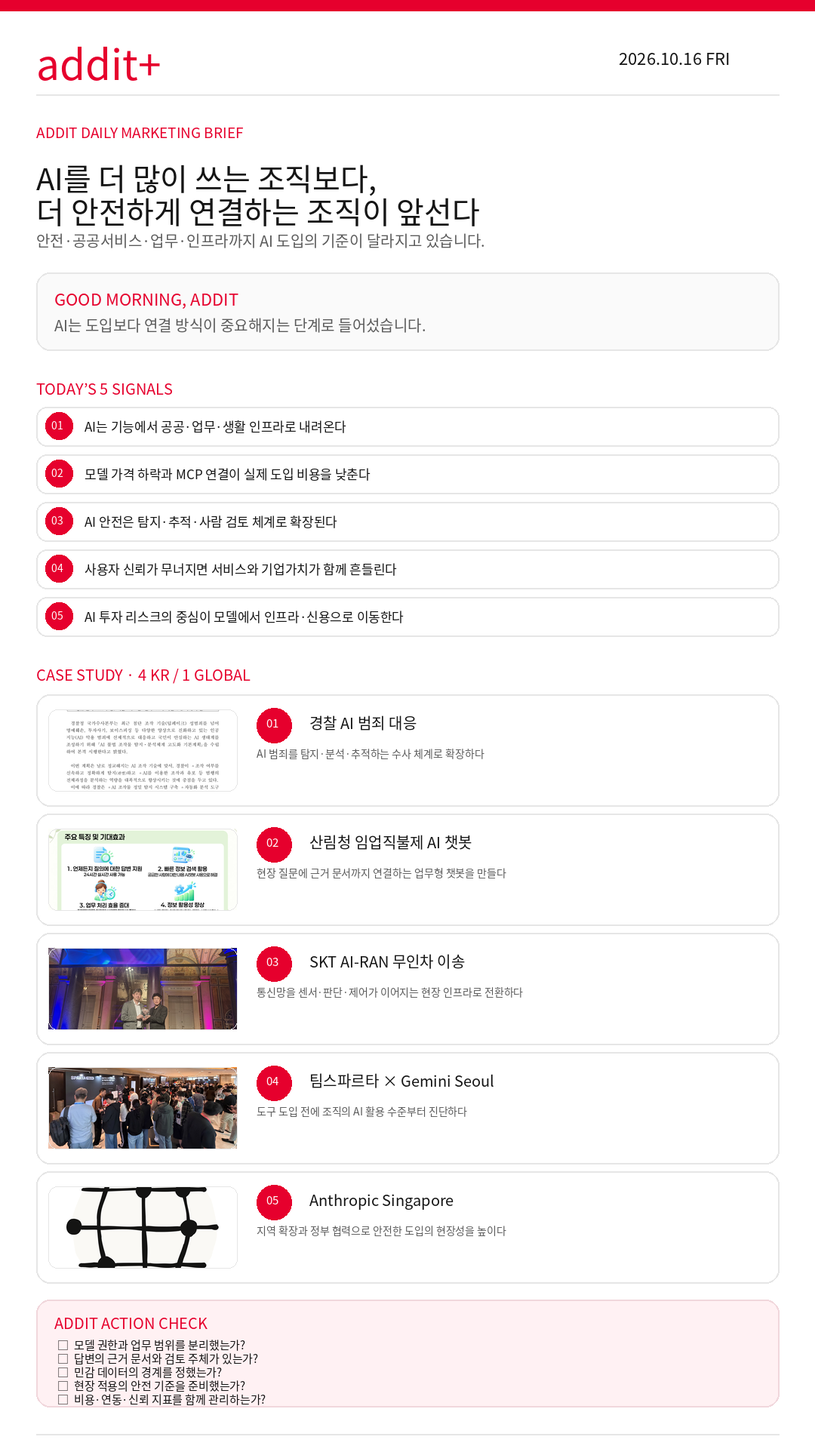
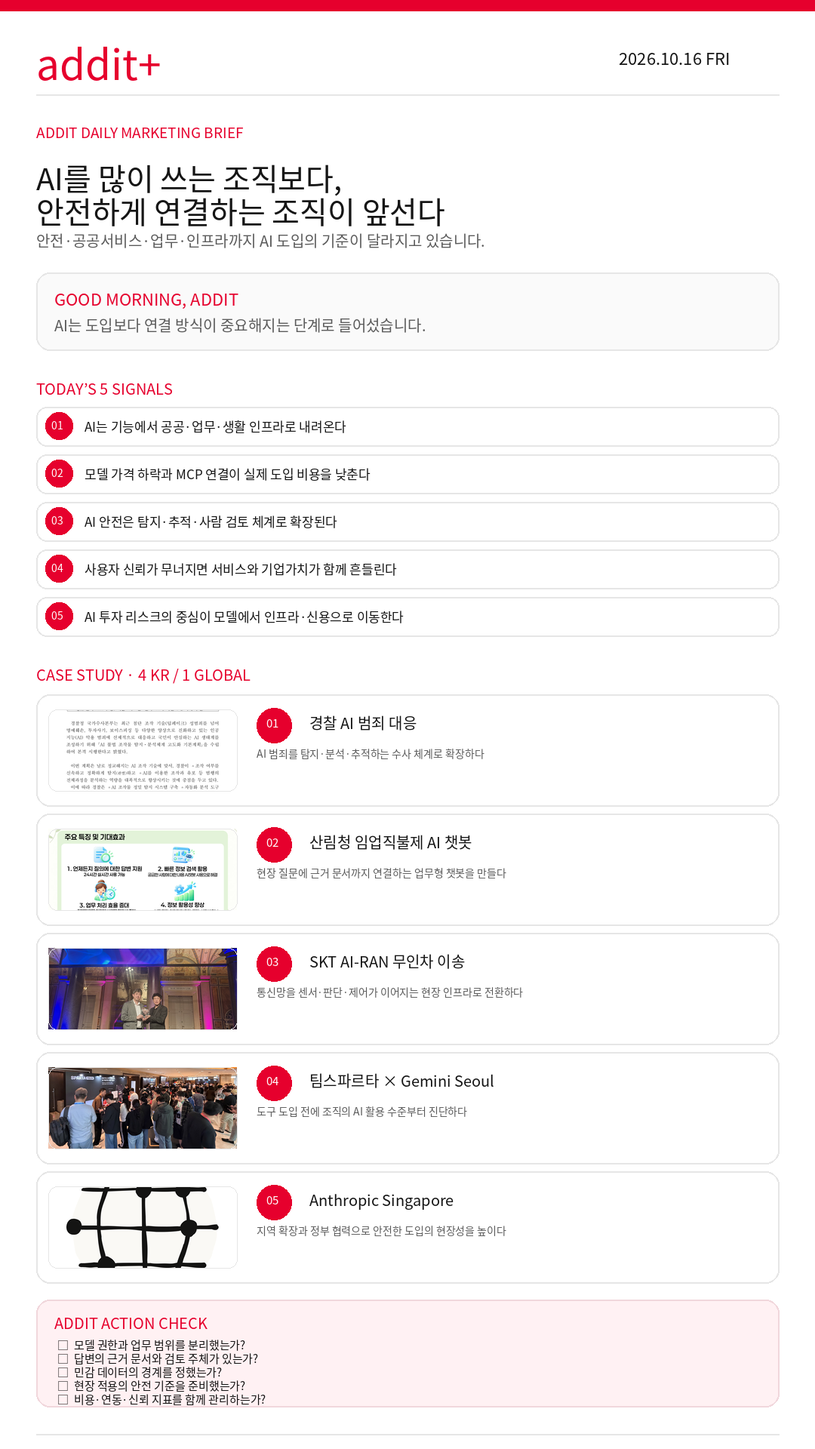
fix: refine 2026-10-16 title wrapping and archive labels

Changed region(s): [[0.0306, 0.0938, 0.5806, 0.1562]]

diff --git a/archive/2026-10-16/index.html b/archive/2026-10-16/index.html
@@ -1,13 +1,13 @@
 <!doctype html><html lang="ko"><head><meta charset="utf-8"><meta name="viewport" content="width=device-width,initial-scale=1">
-<title>AI를 더 많이 쓰는 조직보다, 더 안전하게 연결하는 조직이 앞선다 | Addit Daily Marketing Brief</title>
+<title>AI를 많이 쓰는 조직보다, 안전하게 연결하는 조직이 앞선다 | Addit Daily Marketing Brief</title>
 <meta name="description" content="안전·공공서비스·업무·인프라까지 AI 도입의 기준이 달라지고 있습니다.">
 <link rel="canonical" href="https://vidavida1970.github.io/MKT_Brief/archive/2026-10-16/index.html">
-<meta property="og:type" content="article"><meta property="og:locale" content="ko_KR"><meta property="og:title" content="AI를 더 많이 쓰는 조직보다, 더 안전하게 연결하는 조직이 앞선다"><meta property="og:description" content="안전·공공서비스·업무·인프라까지 AI 도입의 기준이 달라지고 있습니다."><meta property="og:url" content="https://vidavida1970.github.io/MKT_Brief/archive/2026-10-16/index.html?kakao=20261016-ko-v1"><meta property="og:image" content="https://vidavida1970.github.io/MKT_Brief/assets/og-2026-10-16-v1.png"><meta property="og:image:width" content="1200"><meta property="og:image:height" content="630"><meta name="twitter:card" content="summary_large_image"><meta name="twitter:image" content="https://vidavida1970.github.io/MKT_Brief/assets/og-2026-10-16-v1.png">
+<meta property="og:type" content="article"><meta property="og:locale" content="ko_KR"><meta property="og:title" content="AI를 많이 쓰는 조직보다, 안전하게 연결하는 조직이 앞선다"><meta property="og:description" content="안전·공공서비스·업무·인프라까지 AI 도입의 기준이 달라지고 있습니다."><meta property="og:url" content="https://vidavida1970.github.io/MKT_Brief/archive/2026-10-16/index.html?kakao=20261016-ko-v1"><meta property="og:image" content="https://vidavida1970.github.io/MKT_Brief/assets/og-2026-10-16-v1.png"><meta property="og:image:width" content="1200"><meta property="og:image:height" content="630"><meta name="twitter:card" content="summary_large_image"><meta name="twitter:image" content="https://vidavida1970.github.io/MKT_Brief/assets/og-2026-10-16-v1.png">
 <style>
 :root{--red:#e6002d;--ink:#151515;--muted:#5b5b5b;--line:#e6e6e6;--pink:#fff1f3;--bg:#faf9f7}*{box-sizing:border-box}body{margin:0;background:var(--bg);color:var(--ink);font-family:Arial,"Noto Sans KR",sans-serif;line-height:1.55}a{color:inherit}.page{max-width:980px;margin:auto;background:#fff;box-shadow:0 0 0 1px #f0eeee}.top{height:10px;background:var(--red)}.wrap{padding:34px 56px 68px}.mast{display:flex;justify-content:space-between;align-items:center;border-bottom:1px solid var(--line);padding-bottom:22px}.brand{font-size:35px;font-weight:900;color:var(--red);letter-spacing:-.07em}.date{font-size:14px;font-weight:800}.eyebrow{margin-top:40px;color:var(--red);font-size:14px;font-weight:900;letter-spacing:.04em}.hero h1{font-size:clamp(36px,5vw,64px);line-height:1.08;letter-spacing:-.07em;max-width:900px;margin:18px 0}.hero p{font-size:19px;color:var(--muted);margin:0;max-width:760px}.morning{margin-top:32px;border:1px solid var(--line);border-radius:18px;padding:21px 24px;background:#fcfcfc}.morning strong,.section-head span{color:var(--red);font-size:14px;letter-spacing:.04em}.morning p{margin:6px 0 0;color:var(--muted)}section{margin-top:55px}.section-head{display:flex;justify-content:space-between;align-items:baseline;border-bottom:2px solid var(--ink);padding-bottom:12px}.section-head h2{font-size:20px;margin:0;letter-spacing:-.04em}.section-head span{font-size:12px;font-weight:800}.signals{display:grid;grid-template-columns:1fr 1fr;gap:12px;margin-top:18px}.signal{border:1px solid var(--line);border-radius:14px;padding:17px 18px;display:flex;gap:14px}.signal b{background:var(--red);color:#fff;border-radius:50%;width:32px;height:32px;display:grid;place-items:center;font-size:12px;flex:0 0 auto}.signal p{margin:4px 0 0;font-weight:800;line-height:1.4;letter-spacing:-.03em}.cases{display:grid;gap:18px;margin-top:20px}.case{display:grid;grid-template-columns:240px 1fr 205px;gap:24px;align-items:center;border:1px solid var(--line);border-radius:18px;padding:18px;background:#fff}.case img{width:240px;height:150px;object-fit:cover;border-radius:12px;background:#eee}.case .num{color:var(--red);font-size:12px;font-weight:900;letter-spacing:.08em}.case h3{font-size:25px;line-height:1.2;letter-spacing:-.05em;margin:5px 0 9px}.strategy{font-weight:800;margin:0 0 9px;letter-spacing:-.03em}.facts{color:var(--muted);font-size:14px;margin:0;line-height:1.55}.insight{background:var(--pink);border:1px solid #f1d7dc;border-radius:14px;padding:18px}.insight strong{display:block;color:var(--red);font-size:12px;letter-spacing:.04em;margin-bottom:7px}.insight p{font-size:14px;font-weight:800;line-height:1.45;margin:0}.source{display:inline-block;margin-top:12px;color:var(--red);font-size:12px;font-weight:800;text-decoration:none;border-bottom:1px solid #f5a8b8}.watch{display:grid;grid-template-columns:1fr 1fr;gap:12px;margin-top:18px}.watch a{border:1px solid var(--line);border-radius:14px;padding:16px;text-decoration:none;background:#fff}.watch b{display:block;font-size:14px;margin-bottom:5px}.watch span{font-size:13px;color:var(--muted)}.action{margin-top:55px;background:var(--pink);border:1px solid #f1d7dc;border-radius:18px;padding:25px}.action h2{color:var(--red);font-size:18px;margin:0 0 13px}.action ul{list-style:none;padding:0;margin:0;display:grid;grid-template-columns:1fr 1fr;gap:9px 18px}.action li{font-size:14px}.action li:before{content:"□  ";color:var(--red);font-weight:900}.footer{margin-top:50px;border-top:1px solid var(--line);padding-top:24px;color:var(--muted)}.footer strong{display:block;color:var(--ink);font-size:21px;letter-spacing:-.04em}.share{display:flex;gap:12px;flex-wrap:wrap;margin-top:16px}.share a{font-size:12px;text-decoration:none;color:var(--red);font-weight:800}.credit{font-size:11px;color:#888;margin-top:20px}@media(max-width:760px){.wrap{padding:24px 20px 48px}.brand{font-size:29px}.date{font-size:11px}.hero h1{font-size:43px}.hero p{font-size:16px}.signals,.watch,.action ul{grid-template-columns:1fr}.section-head{display:block}.section-head span{display:block;margin-top:5px}.case{grid-template-columns:1fr;gap:13px}.case img{width:100%;height:190px}.case h3{font-size:24px}}
 </style></head><body><main class="page"><div class="top"></div><div class="wrap">
 <header class="mast"><div class="brand">addit+</div><div class="date">2026.10.16 FRI</div></header>
-<div class="hero"><div class="eyebrow">ADDIT DAILY MARKETING BRIEF</div><h1>AI를 더 많이 쓰는 조직보다,<br>더 안전하게 연결하는 조직이 앞선다</h1><p>안전·공공서비스·업무·인프라까지 AI 도입의 기준이 달라지고 있습니다.</p></div>
+<div class="hero"><div class="eyebrow">ADDIT DAILY MARKETING BRIEF</div><h1>AI를 많이 쓰는 조직보다,<br>안전하게 연결하는 조직이 앞선다</h1><p>안전·공공서비스·업무·인프라까지 AI 도입의 기준이 달라지고 있습니다.</p></div>
 <div class="morning"><strong>GOOD MORNING, ADDIT</strong><p>AI는 도입보다 연결 방식이 중요해지는 단계로 들어섰습니다.</p></div>
 <section><div class="section-head"><h2>TODAY’S 5 SIGNALS</h2><span>10.16 · AI OPERATING BRIEF</span></div><div class="signals"><div class="signal"><b>01</b><p>AI는 기능에서 공공·업무·생활 인프라로 내려온다.</p></div><div class="signal"><b>02</b><p>모델 가격 하락과 MCP 연결이 실제 도입 비용을 낮춘다.</p></div><div class="signal"><b>03</b><p>AI 안전은 탐지·추적·사람 검토 체계로 확장된다.</p></div><div class="signal"><b>04</b><p>사용자 신뢰가 무너지면 서비스와 기업가치가 함께 흔들린다.</p></div><div class="signal"><b>05</b><p>AI 투자 리스크의 중심이 모델에서 인프라·신용으로 이동한다.</p></div></div></section>
 <section><div class="section-head"><h2>CASE STUDY</h2><span>4 KR / 1 GLOBAL</span></div><div class="cases"><article class="case"><a data-case-study="경찰-ai-범죄-대응" href="https://www.korea.kr/briefing/pressReleaseView.do?newsId=156785315" target="_blank" rel="noopener noreferrer"><img data-source-image="https://www.korea.kr/common/download.do?fileId=198570434&tblKey=GMN" src="../../assets/case/2026-10-16/police-cover.png" alt="경찰청 AI 악용 범죄 대응 능력 업그레이드 공식 보도자료 첫 페이지"></a><div><div class="num">01 · KR</div><h3>경찰 AI 범죄 대응</h3><p class="strategy">AI 범죄를 탐지·분석·추적하는 수사 체계로 확장하다</p><p class="facts">경찰청은 AI 불법 조작물 정밀 탐지와 범행 과정 분석을 위한 기본계획을 수립했다. 영상·음성·문자를 함께 보는 멀티모달 탐지, AI 전문분석관, 표준 절차 등 8대 과제를 추진한다.</p><a class="source" data-case-study="경찰-ai-범죄-대응-source" href="https://www.korea.kr/briefing/pressReleaseView.do?newsId=156785315" target="_blank" rel="noopener noreferrer">원문 보기 ↗</a></div><div class="insight"><strong>ADDIT INSIGHT</strong><p>안전한 AI는 필터 하나가 아니라 탐지·분석·인력·절차의 운영체계다.</p></div></article>
@@ -17,5 +17,5 @@
 <article class="case"><a data-case-study="anthropic-singapore" href="https://www.anthropic.com/news/singapore-office-opening" target="_blank" rel="noopener noreferrer"><img data-source-image="https://www-cdn.anthropic.com/images/4zrzovbb/website/5f455d24ea80569b34eb4347f06152d8a5508722-1000x1000.svg" src="../../assets/case/2026-10-16/anthropic.png" alt="Anthropic Singapore office and government MOU 공식 대표 일러스트"></a><div><div class="num">05 · GLOBAL</div><h3>Anthropic Singapore</h3><p class="strategy">지역 확장과 정부 협력으로 안전한 도입의 현장성을 높이다</p><p class="facts">Anthropic은 싱가포르에 아시아·태평양 다섯 번째 사무소를 열고 정부와 AI 안전·평가·책임 있는 도입을 위한 MOU를 체결했다. 공식 발표는 싱가포르가 인구 대비 Claude 사용량 121개국 중 2위이며 GovTech·Grab·DBS 등이 활용 중이라고 설명한다.</p><a class="source" data-case-study="anthropic-singapore-source" href="https://www.anthropic.com/news/singapore-office-opening" target="_blank" rel="noopener noreferrer">원문 보기 ↗</a></div><div class="insight"><strong>ADDIT INSIGHT</strong><p>글로벌 AI 확장은 모델 판매가 아니라 현지 파트너·평가·안전 체계를 함께 구축하는 일이다.</p></div></article></div></section>
 <section><div class="section-head"><h2>PLATFORM WATCH</h2><span>원고에서 확인한 추가 신호</span></div><div class="watch"><a href="https://aws.amazon.com/ko/blogs/korea/aws-weekly-roundup-prime-day-2026-by-the-numbers-claude-haiku-5-5-amazon-nova-2-5-sonic-and-more-october-13-2026/" target="_blank" rel="noopener noreferrer"><b>Claude Haiku 5.5</b><span>Haiku 4.5보다 약 75% 낮아진 비용과 작업별 추론 조절</span></a><a href="https://www.globenewswire.com/news-release/2026/10/15/3381918/0/ko/axi-mt5-%EA%B3%84%EC%A0%95%EA%B3%BC-%ED%81%B4%EB%A1%9C%EB%93%9C-%EC%97%B0%EA%B2%B0%ED%95%98%EB%8A%94-mcp-%ED%86%B5%ED%95%A9-%EC%86%94%EB%A3%A8%EC%85%98-%EC%B6%9C%EC%8B%9C.html" target="_blank" rel="noopener noreferrer"><b>Axi × Claude MCP</b><span>MT5 계정과 Claude를 연결하는 금융 업무 커넥터</span></a><a href="https://news.kbs.co.kr/news/pc/view/view.do?ncd=8686303" target="_blank" rel="noopener noreferrer"><b>청소년 안전 소송</b><span>챗GPT 사용 안전성과 사업자 책임을 둘러싼 미국 8개 주 제소</span></a><a href="https://www.aitimes.com/news/articleView.html?idxno=216239" target="_blank" rel="noopener noreferrer"><b>Character.AI 파산보호</b><span>생성형 캐릭터 서비스의 성장 이후 지속가능성 이슈</span></a><a href="https://news.einfomax.co.kr/news/articleView.html?idxno=4439287" target="_blank" rel="noopener noreferrer"><b>CoreWeave 채권 쇼크</b><span>AI 인프라 투자와 신용 리스크가 연결되는 시장 신호</span></a><a href="https://ko.laodong.vn/cong-nghe/google-tich-hop-ai-gemini-vao-android-de-phat-hien-tin-nhan-lua-dao-1783497.ldo" target="_blank" rel="noopener noreferrer"><b>Gemini 사기 메시지 탐지</b><span>생활 속 안전 기능으로 확장되는 AI</span></a></div></section>
 <section class="action"><h2>ADDIT ACTION CHECK</h2><ul><li>모델 권한과 업무 범위를 분리했는가?</li><li>답변의 근거 문서와 검토 주체가 있는가?</li><li>민감 데이터의 경계를 정했는가?</li><li>현장 적용의 안전 기준을 준비했는가?</li><li>비용·연동·신뢰 지표를 함께 관리하는가?</li></ul></section>
-<footer class="footer"><strong>AI를 더 많이 쓰는 조직보다,<br>더 안전하게 연결하는 조직이 앞선다.</strong><div class="share"><a href="../../index.html?kakao=20261016-ko-v1">최신호 홈 ↗</a><a href="../../?kakao=20261016-ko-v1">전체 아카이브 ↗</a><a href="../../assets/brief-2026-10-16-1080x1920.png">세로 브리프 이미지 ↗</a></div><div class="credit">TODAY’S TREND, TOMORROW’S STRATEGY. · Addit Daily Marketing Brief · 2026.10.16</div></footer>
+<footer class="footer"><strong>AI를 많이 쓰는 조직보다,<br>안전하게 연결하는 조직이 앞선다.</strong><div class="share"><a href="../../index.html?kakao=20261016-ko-v1">최신호 홈 ↗</a><a href="../../?kakao=20261016-ko-v1">전체 아카이브 ↗</a><a href="../../assets/brief-2026-10-16-1080x1920.png">세로 브리프 이미지 ↗</a></div><div class="credit">TODAY’S TREND, TOMORROW’S STRATEGY. · Addit Daily Marketing Brief · 2026.10.16</div></footer>
 </div></main></body></html>

diff --git a/archive/index.html b/archive/index.html
@@ -1,1 +1,1 @@
-<!doctype html><html lang="ko"><head><meta charset="utf-8"><meta name="viewport" content="width=device-width"><title>Addit Daily Marketing Brief Archive</title></head><body><h1>Addit Daily Marketing Brief</h1><ul><li><a href="2026-10-16/index.html">2026.10.16 · AI를 더 많이 쓰는 조직보다, 더 안전하게 연결하는 조직이 앞선다</a></li><li><a href="2026-10-15/index.html">2026.10.15 · AI가 전면으로 열릴수록, 도입보다 검증을 설계한다</a></li></ul></body></html>
+<!doctype html><html lang="ko"><head><meta charset="utf-8"><meta name="viewport" content="width=device-width"><title>Addit Daily Marketing Brief Archive</title></head><body><h1>Addit Daily Marketing Brief</h1><ul><li><a href="2026-10-16/index.html">2026.10.16 · AI를 많이 쓰는 조직보다, 안전하게 연결하는 조직이 앞선다</a></li><li><a href="2026-10-15/index.html">2026.10.15 · AI가 전면으로 열릴수록, 도입보다 검증을 설계한다</a></li></ul></body></html>

diff --git a/build_20261016.py b/build_20261016.py
@@ -7,7 +7,7 @@ CASE = ROOT / 'assets' / 'case' / '2026-10-16'
 FONT = '/tmp/fonts/NotoSansKR.otf'
 RED, INK, MUTED, LINE, PINK = '#E6002D', '#151515', '#5B5B5B', '#E6E6E6', '#FFF1F3'
 
-TITLE = 'AI를 더 많이 쓰는 조직보다,\n더 안전하게 연결하는 조직이 앞선다'
+TITLE = 'AI를 많이 쓰는 조직보다,\n안전하게 연결하는 조직이 앞선다'
 SUBTITLE = '안전·공공서비스·업무·인프라까지 AI 도입의 기준이 달라지고 있습니다.'
 PAGE_URL = 'https://vidavida1970.github.io/MKT_Brief/archive/2026-10-16/index.html'
 SHARE_URL = PAGE_URL + '?kakao=20261016-ko-v1'
@@ -137,7 +137,7 @@ def create_vertical():
     d.text((margin+24,y+15),'ADDIT ACTION CHECK',font=f(20,True),fill=RED)
     actions=['모델 권한과 업무 범위를 분리했는가?','답변의 근거 문서와 검토 주체가 있는가?','민감 데이터의 경계를 정했는가?','현장 적용의 안전 기준을 준비했는가?','비용·연동·신뢰 지표를 함께 관리하는가?']
     for i,a in enumerate(actions): d.text((margin+28,y+48+i*18),'□  '+a,font=f(15),fill=INK)
-    y+=178; d.line((margin,y,W-margin,y),fill=LINE,width=2); d.text((margin,y+17),'AI를 더 많이 쓰는 조직보다,',font=f(20),fill=MUTED); d.text((margin,y+51),'더 안전하게 연결하는 조직이 앞선다.',font=f(23,True),fill=INK)
+    y+=178; d.line((margin,y,W-margin,y),fill=LINE,width=2); d.text((margin,y+17),'AI를 많이 쓰는 조직보다,',font=f(20),fill=MUTED); d.text((margin,y+51),'안전하게 연결하는 조직이 앞선다.',font=f(23,True),fill=INK)
     im.save(ROOT/'assets/brief-2026-10-16-1080x1920.png')
 
 def card_html(c):
@@ -147,25 +147,25 @@ def card_html(c):
 def create_html():
     card_block='\n'.join(card_html(c) for c in cases)
     html=f'''<!doctype html><html lang="ko"><head><meta charset="utf-8"><meta name="viewport" content="width=device-width,initial-scale=1">
-<title>AI를 더 많이 쓰는 조직보다, 더 안전하게 연결하는 조직이 앞선다 | Addit Daily Marketing Brief</title>
+<title>AI를 많이 쓰는 조직보다, 안전하게 연결하는 조직이 앞선다 | Addit Daily Marketing Brief</title>
 <meta name="description" content="안전·공공서비스·업무·인프라까지 AI 도입의 기준이 달라지고 있습니다.">
 <link rel="canonical" href="{PAGE_URL}">
-<meta property="og:type" content="article"><meta property="og:locale" content="ko_KR"><meta property="og:title" content="AI를 더 많이 쓰는 조직보다, 더 안전하게 연결하는 조직이 앞선다"><meta property="og:description" content="안전·공공서비스·업무·인프라까지 AI 도입의 기준이 달라지고 있습니다."><meta property="og:url" content="{SHARE_URL}"><meta property="og:image" content="{OG_URL}"><meta property="og:image:width" content="1200"><meta property="og:image:height" content="630"><meta name="twitter:card" content="summary_large_image"><meta name="twitter:image" content="{OG_URL}">
+<meta property="og:type" content="article"><meta property="og:locale" content="ko_KR"><meta property="og:title" content="AI를 많이 쓰는 조직보다, 안전하게 연결하는 조직이 앞선다"><meta property="og:description" content="안전·공공서비스·업무·인프라까지 AI 도입의 기준이 달라지고 있습니다."><meta property="og:url" content="{SHARE_URL}"><meta property="og:image" content="{OG_URL}"><meta property="og:image:width" content="1200"><meta property="og:image:height" content="630"><meta name="twitter:card" content="summary_large_image"><meta name="twitter:image" content="{OG_URL}">
 <style>
 :root{{--red:#e6002d;--ink:#151515;--muted:#5b5b5b;--line:#e6e6e6;--pink:#fff1f3;--bg:#faf9f7}}*{{box-sizing:border-box}}body{{margin:0;background:var(--bg);color:var(--ink);font-family:Arial,"Noto Sans KR",sans-serif;line-height:1.55}}a{{color:inherit}}.page{{max-width:980px;margin:auto;background:#fff;box-shadow:0 0 0 1px #f0eeee}}.top{{height:10px;background:var(--red)}}.wrap{{padding:34px 56px 68px}}.mast{{display:flex;justify-content:space-between;align-items:center;border-bottom:1px solid var(--line);padding-bottom:22px}}.brand{{font-size:35px;font-weight:900;color:var(--red);letter-spacing:-.07em}}.date{{font-size:14px;font-weight:800}}.eyebrow{{margin-top:40px;color:var(--red);font-size:14px;font-weight:900;letter-spacing:.04em}}.hero h1{{font-size:clamp(36px,5vw,64px);line-height:1.08;letter-spacing:-.07em;max-width:900px;margin:18px 0}}.hero p{{font-size:19px;color:var(--muted);margin:0;max-width:760px}}.morning{{margin-top:32px;border:1px solid var(--line);border-radius:18px;padding:21px 24px;background:#fcfcfc}}.morning strong,.section-head span{{color:var(--red);font-size:14px;letter-spacing:.04em}}.morning p{{margin:6px 0 0;color:var(--muted)}}section{{margin-top:55px}}.section-head{{display:flex;justify-content:space-between;align-items:baseline;border-bottom:2px solid var(--ink);padding-bottom:12px}}.section-head h2{{font-size:20px;margin:0;letter-spacing:-.04em}}.section-head span{{font-size:12px;font-weight:800}}.signals{{display:grid;grid-template-columns:1fr 1fr;gap:12px;margin-top:18px}}.signal{{border:1px solid var(--line);border-radius:14px;padding:17px 18px;display:flex;gap:14px}}.signal b{{background:var(--red);color:#fff;border-radius:50%;width:32px;height:32px;display:grid;place-items:center;font-size:12px;flex:0 0 auto}}.signal p{{margin:4px 0 0;font-weight:800;line-height:1.4;letter-spacing:-.03em}}.cases{{display:grid;gap:18px;margin-top:20px}}.case{{display:grid;grid-template-columns:240px 1fr 205px;gap:24px;align-items:center;border:1px solid var(--line);border-radius:18px;padding:18px;background:#fff}}.case img{{width:240px;height:150px;object-fit:cover;border-radius:12px;background:#eee}}.case .num{{color:var(--red);font-size:12px;font-weight:900;letter-spacing:.08em}}.case h3{{font-size:25px;line-height:1.2;letter-spacing:-.05em;margin:5px 0 9px}}.strategy{{font-weight:800;margin:0 0 9px;letter-spacing:-.03em}}.facts{{color:var(--muted);font-size:14px;margin:0;line-height:1.55}}.insight{{background:var(--pink);border:1px solid #f1d7dc;border-radius:14px;padding:18px}}.insight strong{{display:block;color:var(--red);font-size:12px;letter-spacing:.04em;margin-bottom:7px}}.insight p{{font-size:14px;font-weight:800;line-height:1.45;margin:0}}.source{{display:inline-block;margin-top:12px;color:var(--red);font-size:12px;font-weight:800;text-decoration:none;border-bottom:1px solid #f5a8b8}}.watch{{display:grid;grid-template-columns:1fr 1fr;gap:12px;margin-top:18px}}.watch a{{border:1px solid var(--line);border-radius:14px;padding:16px;text-decoration:none;background:#fff}}.watch b{{display:block;font-size:14px;margin-bottom:5px}}.watch span{{font-size:13px;color:var(--muted)}}.action{{margin-top:55px;background:var(--pink);border:1px solid #f1d7dc;border-radius:18px;padding:25px}}.action h2{{color:var(--red);font-size:18px;margin:0 0 13px}}.action ul{{list-style:none;padding:0;margin:0;display:grid;grid-template-columns:1fr 1fr;gap:9px 18px}}.action li{{font-size:14px}}.action li:before{{content:"□  ";color:var(--red);font-weight:900}}.footer{{margin-top:50px;border-top:1px solid var(--line);padding-top:24px;color:var(--muted)}}.footer strong{{display:block;color:var(--ink);font-size:21px;letter-spacing:-.04em}}.share{{display:flex;gap:12px;flex-wrap:wrap;margin-top:16px}}.share a{{font-size:12px;text-decoration:none;color:var(--red);font-weight:800}}.credit{{font-size:11px;color:#888;margin-top:20px}}@media(max-width:760px){{.wrap{{padding:24px 20px 48px}}.brand{{font-size:29px}}.date{{font-size:11px}}.hero h1{{font-size:43px}}.hero p{{font-size:16px}}.signals,.watch,.action ul{{grid-template-columns:1fr}}.section-head{{display:block}}.section-head span{{display:block;margin-top:5px}}.case{{grid-template-columns:1fr;gap:13px}}.case img{{width:100%;height:190px}}.case h3{{font-size:24px}}}}
 </style></head><body><main class="page"><div class="top"></div><div class="wrap">
 <header class="mast"><div class="brand">addit+</div><div class="date">2026.10.16 FRI</div></header>
-<div class="hero"><div class="eyebrow">ADDIT DAILY MARKETING BRIEF</div><h1>AI를 더 많이 쓰는 조직보다,<br>더 안전하게 연결하는 조직이 앞선다</h1><p>{SUBTITLE}</p></div>
+<div class="hero"><div class="eyebrow">ADDIT DAILY MARKETING BRIEF</div><h1>AI를 많이 쓰는 조직보다,<br>안전하게 연결하는 조직이 앞선다</h1><p>{SUBTITLE}</p></div>
 <div class="morning"><strong>GOOD MORNING, ADDIT</strong><p>AI는 도입보다 연결 방식이 중요해지는 단계로 들어섰습니다.</p></div>
 <section><div class="section-head"><h2>TODAY’S 5 SIGNALS</h2><span>10.16 · AI OPERATING BRIEF</span></div><div class="signals"><div class="signal"><b>01</b><p>AI는 기능에서 공공·업무·생활 인프라로 내려온다.</p></div><div class="signal"><b>02</b><p>모델 가격 하락과 MCP 연결이 실제 도입 비용을 낮춘다.</p></div><div class="signal"><b>03</b><p>AI 안전은 탐지·추적·사람 검토 체계로 확장된다.</p></div><div class="signal"><b>04</b><p>사용자 신뢰가 무너지면 서비스와 기업가치가 함께 흔들린다.</p></div><div class="signal"><b>05</b><p>AI 투자 리스크의 중심이 모델에서 인프라·신용으로 이동한다.</p></div></div></section>
 <section><div class="section-head"><h2>CASE STUDY</h2><span>4 KR / 1 GLOBAL</span></div><div class="cases">{card_block}</div></section>
 <section><div class="section-head"><h2>PLATFORM WATCH</h2><span>원고에서 확인한 추가 신호</span></div><div class="watch"><a href="https://aws.amazon.com/ko/blogs/korea/aws-weekly-roundup-prime-day-2026-by-the-numbers-claude-haiku-5-5-amazon-nova-2-5-sonic-and-more-october-13-2026/" target="_blank" rel="noopener noreferrer"><b>Claude Haiku 5.5</b><span>Haiku 4.5보다 약 75% 낮아진 비용과 작업별 추론 조절</span></a><a href="https://www.globenewswire.com/news-release/2026/10/15/3381918/0/ko/axi-mt5-%EA%B3%84%EC%A0%95%EA%B3%BC-%ED%81%B4%EB%A1%9C%EB%93%9C-%EC%97%B0%EA%B2%B0%ED%95%98%EB%8A%94-mcp-%ED%86%B5%ED%95%A9-%EC%86%94%EB%A3%A8%EC%85%98-%EC%B6%9C%EC%8B%9C.html" target="_blank" rel="noopener noreferrer"><b>Axi × Claude MCP</b><span>MT5 계정과 Claude를 연결하는 금융 업무 커넥터</span></a><a href="https://news.kbs.co.kr/news/pc/view/view.do?ncd=8686303" target="_blank" rel="noopener noreferrer"><b>청소년 안전 소송</b><span>챗GPT 사용 안전성과 사업자 책임을 둘러싼 미국 8개 주 제소</span></a><a href="https://www.aitimes.com/news/articleView.html?idxno=216239" target="_blank" rel="noopener noreferrer"><b>Character.AI 파산보호</b><span>생성형 캐릭터 서비스의 성장 이후 지속가능성 이슈</span></a><a href="https://news.einfomax.co.kr/news/articleView.html?idxno=4439287" target="_blank" rel="noopener noreferrer"><b>CoreWeave 채권 쇼크</b><span>AI 인프라 투자와 신용 리스크가 연결되는 시장 신호</span></a><a href="https://ko.laodong.vn/cong-nghe/google-tich-hop-ai-gemini-vao-android-de-phat-hien-tin-nhan-lua-dao-1783497.ldo" target="_blank" rel="noopener noreferrer"><b>Gemini 사기 메시지 탐지</b><span>생활 속 안전 기능으로 확장되는 AI</span></a></div></section>
 <section class="action"><h2>ADDIT ACTION CHECK</h2><ul><li>모델 권한과 업무 범위를 분리했는가?</li><li>답변의 근거 문서와 검토 주체가 있는가?</li><li>민감 데이터의 경계를 정했는가?</li><li>현장 적용의 안전 기준을 준비했는가?</li><li>비용·연동·신뢰 지표를 함께 관리하는가?</li></ul></section>
-<footer class="footer"><strong>AI를 더 많이 쓰는 조직보다,<br>더 안전하게 연결하는 조직이 앞선다.</strong><div class="share"><a href="../../index.html?kakao=20261016-ko-v1">최신호 홈 ↗</a><a href="../../?kakao=20261016-ko-v1">전체 아카이브 ↗</a><a href="../../assets/brief-2026-10-16-1080x1920.png">세로 브리프 이미지 ↗</a></div><div class="credit">TODAY’S TREND, TOMORROW’S STRATEGY. · Addit Daily Marketing Brief · 2026.10.16</div></footer>
+<footer class="footer"><strong>AI를 많이 쓰는 조직보다,<br>안전하게 연결하는 조직이 앞선다.</strong><div class="share"><a href="../../index.html?kakao=20261016-ko-v1">최신호 홈 ↗</a><a href="../../?kakao=20261016-ko-v1">전체 아카이브 ↗</a><a href="../../assets/brief-2026-10-16-1080x1920.png">세로 브리프 이미지 ↗</a></div><div class="credit">TODAY’S TREND, TOMORROW’S STRATEGY. · Addit Daily Marketing Brief · 2026.10.16</div></footer>
 </div></main></body></html>'''
     out=ROOT/'archive'/'2026-10-16'; out.mkdir(parents=True,exist_ok=True); (out/'index.html').write_text(html,encoding='utf-8')
     (ROOT/'index.html').write_text('<meta http-equiv="refresh" content="0; url=archive/2026-10-16/index.html?kakao=20261016-ko-v1"><link rel="canonical" href="https://vidavida1970.github.io/MKT_Brief/archive/2026-10-16/index.html">',encoding='utf-8')
-    (ROOT/'archive'/'index.html').write_text('<!doctype html><html lang="ko"><head><meta charset="utf-8"><meta name="viewport" content="width=device-width"><title>Addit Daily Marketing Brief Archive</title></head><body><h1>Addit Daily Marketing Brief</h1><ul><li><a href="2026-10-16/index.html">2026.10.16 · AI를 더 많이 쓰는 조직보다, 더 안전하게 연결하는 조직이 앞선다</a></li><li><a href="2026-10-15/index.html">2026.10.15 · AI가 전면으로 열릴수록, 도입보다 검증을 설계한다</a></li></ul></body></html>',encoding='utf-8')
+    (ROOT/'archive'/'index.html').write_text('<!doctype html><html lang="ko"><head><meta charset="utf-8"><meta name="viewport" content="width=device-width"><title>Addit Daily Marketing Brief Archive</title></head><body><h1>Addit Daily Marketing Brief</h1><ul><li><a href="2026-10-16/index.html">2026.10.16 · AI를 많이 쓰는 조직보다, 안전하게 연결하는 조직이 앞선다</a></li><li><a href="2026-10-15/index.html">2026.10.15 · AI가 전면으로 열릴수록, 도입보다 검증을 설계한다</a></li></ul></body></html>',encoding='utf-8')
 
 def main():
     CASE.mkdir(parents=True,exist_ok=True); (ROOT/'assets').mkdir(exist_ok=True)
